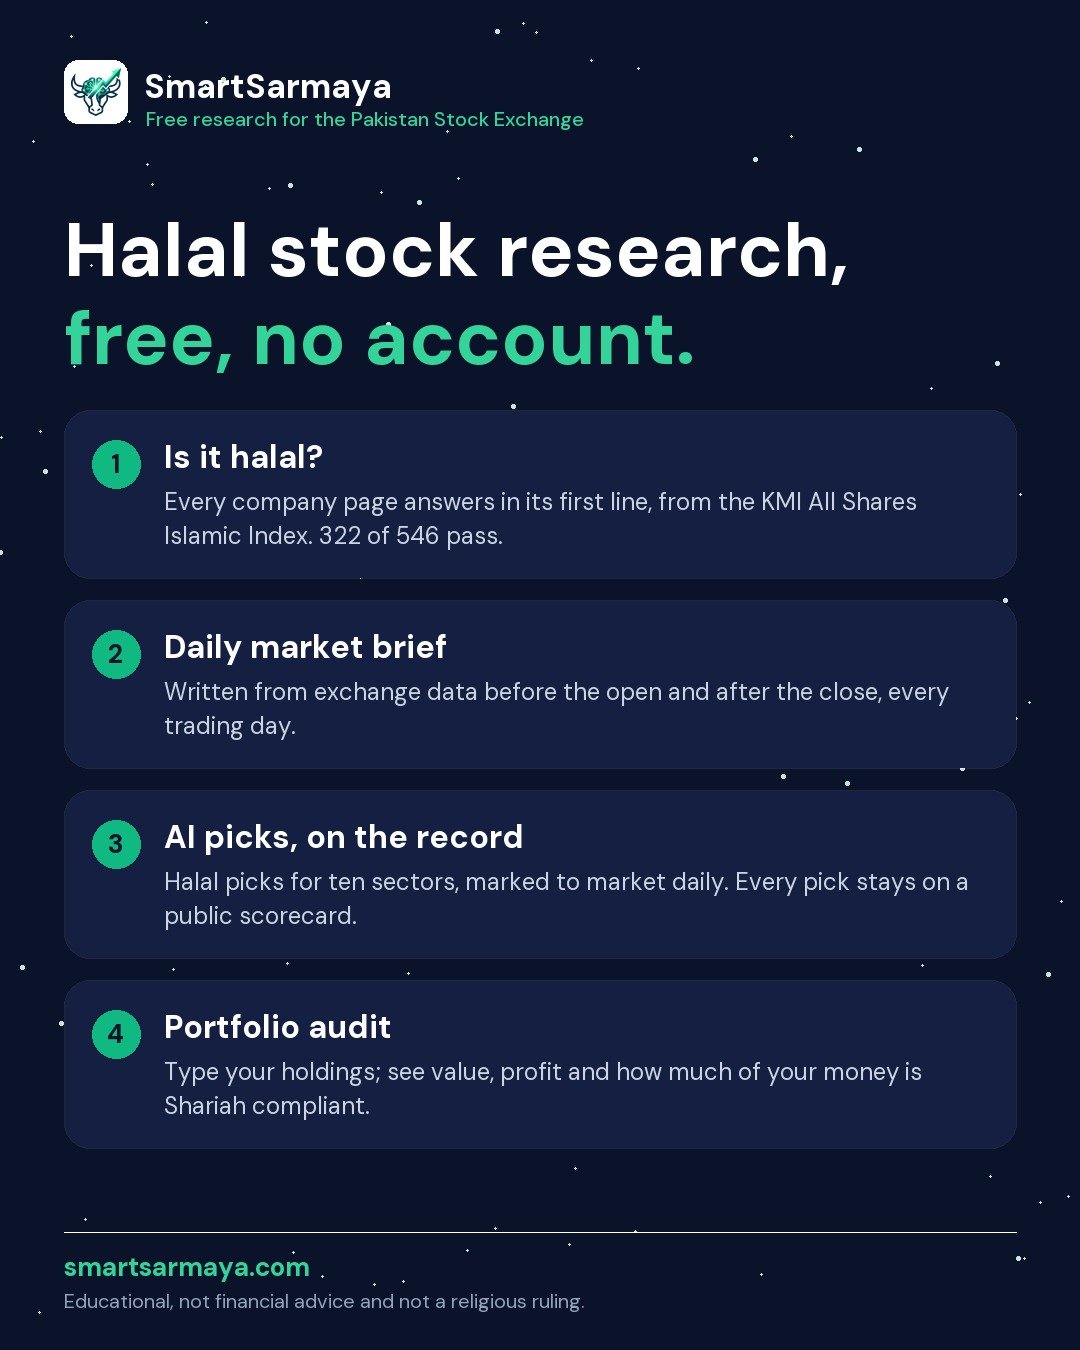
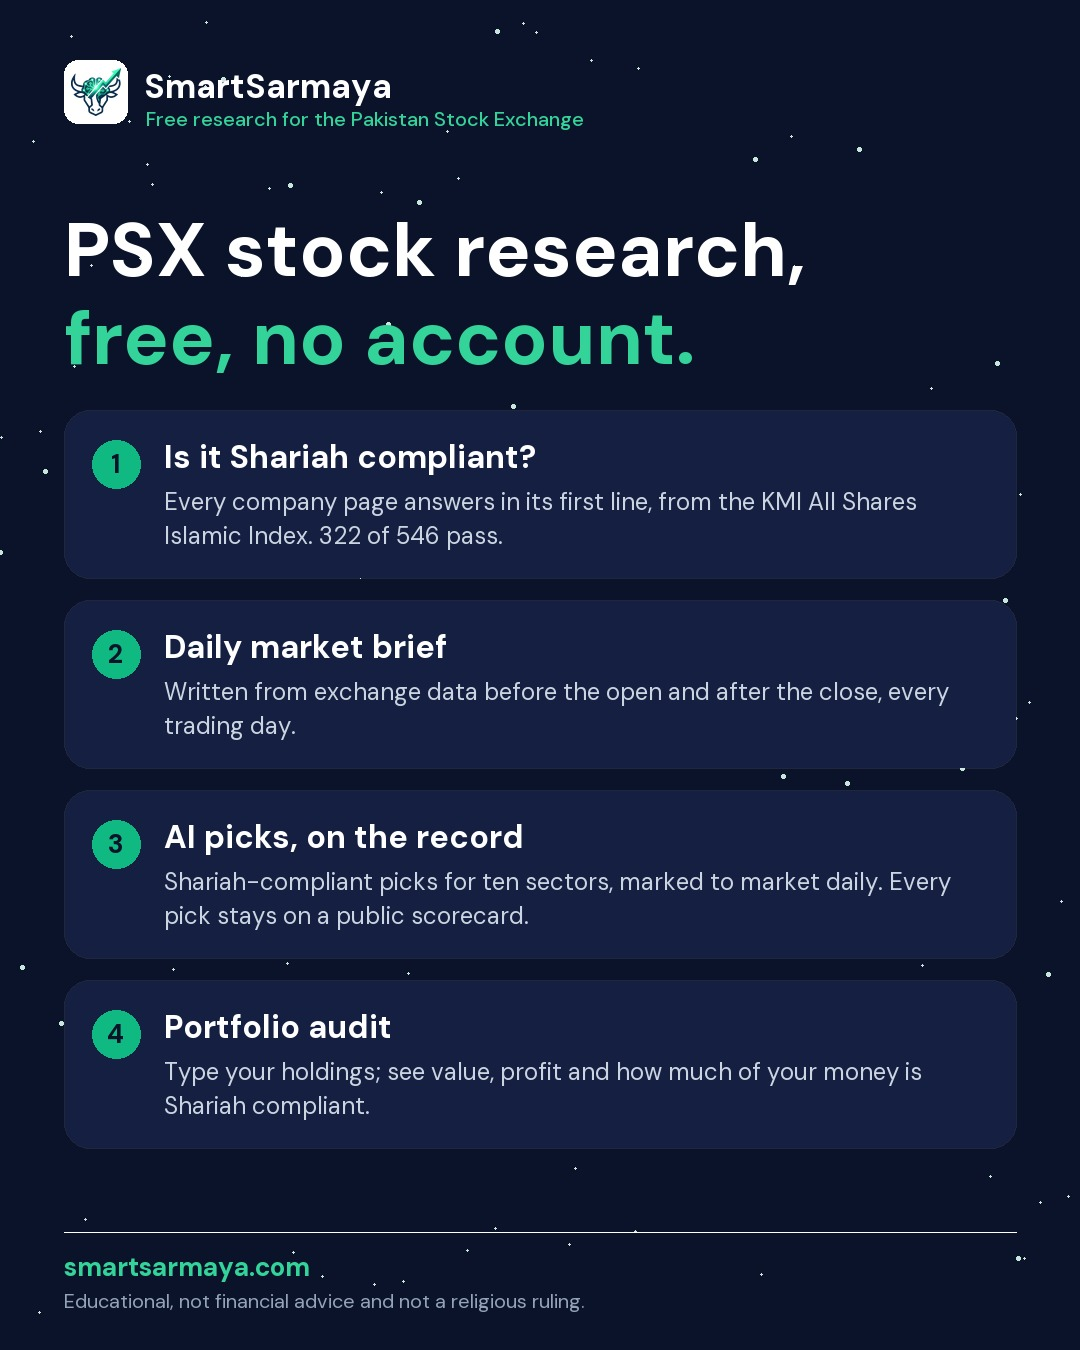
Say "Shariah compliant" instead of "halal" across the site and posts
The site now covers every listed company, compliant or not, so the
brand line becomes "AI stock research for the Pakistan Stock Exchange"
and the status vocabulary is Shariah compliant / not Shariah compliant
throughout: page titles and descriptions, the hero, nav and footer,
badges, the picks and track-record pages, the FAQ, the eight guides and
both diagrams, llms.txt, the pipeline's Telegram and social captions,
and the card, video and reply generators. Identifiers, CSS classes, DB
columns and the guide URL are unchanged. "halal" stays as a search
synonym in the keywords metadata, once in the FAQ and once in the
opening line of the guide that ranks for it.

diff --git a/frontend/src/app/about/page.tsx b/frontend/src/app/about/page.tsx
@@ -9,9 +9,9 @@ import { CONTACT_EMAIL, EDITOR, SITE_NAME, SITE_URL } from "@/lib/site";
  * halal claim is the reason anyone stays on the site.
  */
 export const metadata: Metadata = {
-  title: "About us and how the halal screening works",
+  title: "About us and how the Shariah screening works",
   description:
-    "SmartSarmaya is free AI stock research for the Pakistan Stock Exchange. Learn how our halal screening uses the PSX KMI All Shares Islamic Index and real data.",
+    "SmartSarmaya is free AI stock research for the Pakistan Stock Exchange. Learn how our Shariah screening uses the PSX KMI All Shares Islamic Index and real data.",
   alternates: { canonical: "/about" },
 };
 
@@ -35,7 +35,7 @@ export default function AboutPage() {
             SmartSarmaya reads the Pakistan Stock Exchange data that is already public, computes
             the technical numbers that most retail investors never get time to calculate, and uses
             an AI model to explain what those numbers say in plain language. You can audit a
-            portfolio, look up any listed company, and read the halal picks we publish each day.
+            portfolio, look up any listed company, and read the Shariah-compliant picks we publish each day.
             There is no account, no login and no fee.
           </p>
           <p className="mt-4 text-sm leading-relaxed text-slate-700">
@@ -91,7 +91,7 @@ export default function AboutPage() {
 
         <div className="card mt-5 p-5 sm:p-6">
           <h2 className="text-base font-bold text-navy-900">
-            How the halal screening actually works
+            How the Shariah screening actually works
           </h2>
           <p className="mt-3 text-sm leading-relaxed text-slate-700">
             This is the part that matters most, so it is worth being precise about it.
@@ -106,7 +106,7 @@ export default function AboutPage() {
             exchange adds or removes a company, the badge on this site follows.
           </p>
           <p className="mt-4 text-sm leading-relaxed text-slate-700">
-            The AI never decides what is halal. It is not asked to. Before the model sees anything,
+            The AI never decides what is Shariah compliant. It is not asked to. Before the model sees anything,
             the candidate list is filtered down to KMI constituents only, so the model is choosing
             among stocks the exchange has already screened. If the model were to name a company
             outside that list, the pick is discarded before it is saved. The compliance decision

diff --git a/frontend/src/components/Hero.tsx b/frontend/src/components/Hero.tsx
@@ -125,14 +125,14 @@ export default function Hero({
             </span>
 
             <h1 className="text-3xl font-bold leading-tight tracking-tight text-white sm:text-4xl lg:text-5xl">
-              Halal stock research for the
+              AI stock research for the
               <span className="text-emerald-400"> Pakistan Stock Exchange</span>
             </h1>
 
             <p className="mt-5 max-w-md text-base leading-relaxed text-slate-300">
-              Audit your portfolio, analyse any listed company, and read AI picks whose Shariah
-              status comes from the exchange itself, not from a chatbot&apos;s guess. Free, and no
-              account.
+              Audit your portfolio, analyse any listed company, and read AI picks. The
+              Shariah-compliance status of every company comes from the exchange itself, not from
+              a chatbot&apos;s guess. Free, and no account.
             </p>
 
             <div className="mt-8 flex flex-col gap-3 sm:flex-row sm:items-center">
@@ -147,16 +147,16 @@ export default function Hero({
                 href="#picks"
                 className="focus-ring inline-flex items-center justify-center gap-2 rounded-xl border border-white/20 px-6 py-3 text-base font-semibold text-white transition hover:bg-white/10"
               >
-                See today&apos;s halal picks
+                See today&apos;s Shariah-compliant picks
                 <ArrowRight className="h-4 w-4" aria-hidden />
               </Link>
             </div>
 
             <dl className="tabular mt-7 flex flex-wrap items-center gap-y-2 text-sm text-slate-400">
               <div className="pr-5">
-                <dt className="sr-only">Halal stocks</dt>
+                <dt className="sr-only">Shariah-compliant stocks</dt>
                 <dd>
-                  <span className="font-bold text-white">{halalCount || "—"}</span> halal stocks
+                  <span className="font-bold text-white">{halalCount || "—"}</span> Shariah compliant
                 </dd>
               </div>
               <div className="border-l border-white/10 px-5">
@@ -297,7 +297,7 @@ export default function Hero({
         </div>
       </ParallaxStage>
 
-      <nav className="hero-rail" aria-label="Halal picks by sector">
+      <nav className="hero-rail" aria-label="Shariah-compliant picks by sector">
         <Link href="/picks" className="hero-rail-link hero-rail-link-active focus-ring">
           <span className="hero-rail-dot" aria-hidden />
           All picks

diff --git a/frontend/src/app/layout.tsx b/frontend/src/app/layout.tsx
@@ -26,15 +26,16 @@ export const viewport: Viewport = {
 export const metadata: Metadata = {
   metadataBase: new URL(SITE_URL),
   title: {
-    default: "SmartSarmaya | Halal AI stock research for PSX and the KSE-100",
+    default: "SmartSarmaya | Shariah-compliant AI research for the PSX",
     template: "%s | SmartSarmaya",
   },
   description:
-    "Free AI research for the Pakistan Stock Exchange. Audit your portfolio, analyse any listed company, and read halal stock picks screened against the KMI All Shares Islamic Index. Educational only, not financial advice.",
+    "Free AI research for the Pakistan Stock Exchange. Audit your portfolio, analyse any listed company, and read Shariah-compliant stock picks screened against the KMI All Shares Islamic Index. Educational only, not financial advice.",
   keywords: [
     "PSX",
     "Pakistan Stock Exchange",
     "KSE-100",
+    "Shariah compliant stocks Pakistan",
     "halal stocks Pakistan",
     "Shariah compliant stocks PSX",
     "KMI All Shares Islamic Index",
@@ -55,9 +56,9 @@ export const metadata: Metadata = {
   },
   alternates: { canonical: "/" },
   openGraph: {
-    title: "SmartSarmaya | Halal AI stock research for PSX",
+    title: "SmartSarmaya | Shariah-compliant AI research for the PSX",
     description:
-      "Audit your PSX portfolio and read AI halal picks screened against the exchange's own Islamic index. Free, no account needed.",
+      "Audit your PSX portfolio and read AI Shariah-compliant picks screened against the exchange's own Islamic index. Free, no account needed.",
     url: SITE_URL,
     siteName: "SmartSarmaya",
     locale: "en_PK",
@@ -67,15 +68,15 @@ export const metadata: Metadata = {
         url: "/images/og-default.jpg",
         width: 1200,
         height: 630,
-        alt: "SmartSarmaya, halal AI stock research for the Pakistan Stock Exchange",
+        alt: "SmartSarmaya, Shariah-compliant AI stock research for the Pakistan Stock Exchange",
       },
     ],
   },
   twitter: {
     card: "summary_large_image",
-    title: "SmartSarmaya | Halal AI stock research for PSX",
+    title: "SmartSarmaya | Shariah-compliant AI research for the PSX",
     description:
-      "Audit your PSX portfolio and read AI halal picks screened against the exchange's own Islamic index.",
+      "Audit your PSX portfolio and read AI Shariah-compliant picks screened against the exchange's own Islamic index.",
     images: ["/images/og-default.jpg"],
   },
   robots: {

diff --git a/frontend/src/app/picks/page.tsx b/frontend/src/app/picks/page.tsx
@@ -20,12 +20,12 @@ import { SITE_URL } from "@/lib/site";
 export const revalidate = 600;
 
 export const metadata: Metadata = {
-  title: "Halal stocks in Pakistan, by sector",
+  title: "Shariah-compliant stocks in Pakistan, by sector",
   description:
     "Shariah-compliant stock picks for ten PSX sectors, screened against the KMI All Shares Islamic Index published by the Pakistan Stock Exchange and ranked by AI for short, medium and long term horizons.",
   alternates: { canonical: "/picks" },
   openGraph: {
-    title: "Halal stocks in Pakistan, by sector",
+    title: "Shariah-compliant stocks in Pakistan, by sector",
     description:
       "Ten sectors of Shariah-compliant PSX stocks, screened against the exchange's own Islamic index.",
     url: `${SITE_URL}/picks`,
@@ -53,14 +53,14 @@ export default async function PicksHubPage() {
     "@type": "BreadcrumbList",
     itemListElement: [
       { "@type": "ListItem", position: 1, name: "Home", item: SITE_URL },
-      { "@type": "ListItem", position: 2, name: "Halal picks", item: `${SITE_URL}/picks` },
+      { "@type": "ListItem", position: 2, name: "Shariah-compliant picks", item: `${SITE_URL}/picks` },
     ],
   };
 
   const itemList = {
     "@context": "https://schema.org",
     "@type": "ItemList",
-    name: "Halal stock picks by PSX sector",
+    name: "Shariah-compliant stock picks by PSX sector",
     itemListElement: sectors.map((sector, index) => ({
       "@type": "ListItem",
       position: index + 1,
@@ -87,7 +87,7 @@ export default async function PicksHubPage() {
             KMI All Shares screened
           </span>
           <h1 className="mt-3 text-3xl font-bold tracking-tight text-white sm:text-4xl">
-            Halal stocks in Pakistan, by sector
+            Shariah-compliant stocks in Pakistan, by sector
           </h1>
           <p className="mt-3 max-w-3xl leading-relaxed text-slate-300">
             Every company below is a constituent of the KMI All Shares Islamic Index published by
@@ -139,7 +139,7 @@ export default async function PicksHubPage() {
 
           <div className="card mt-6 p-5">
             <h2 className="text-base font-bold text-navy-900">
-              How a stock qualifies as halal here
+              How a stock qualifies as Shariah compliant here
             </h2>
             <p className="mt-2 leading-relaxed text-slate-700">
               A stock appears on these pages only if the Pakistan Stock Exchange lists it in the

diff --git a/frontend/src/app/stock/[symbol]/page.tsx b/frontend/src/app/stock/[symbol]/page.tsx
@@ -56,7 +56,7 @@ export async function generateMetadata({
     // Absolute, because the layout's " | SmartSarmaya" suffix pushed every
     // stock title past what a result page shows. The company name leads: it
     // is what people type, and the ticker alone was all the old title had.
-    title: { absolute: `${label} share price & halal status` },
+    title: { absolute: `${label} share price & Shariah status` },
     // Kept under 155 characters so the halal verdict and price both survive
     // the snippet. "Latest" rather than "live": quotes are end-of-day.
     description: `${label} is ${halal} on the PSX. Latest price ${money(stock.current_price)} PKR (${percent(stock.change_pct)}). Technicals, 52-week range and KMI index status.`,
@@ -392,7 +392,7 @@ export default async function StockPage({
 
         <section className="card mt-4 p-5">
           <h2 className="text-base font-bold text-navy-900">
-            Is {clean} halal to invest in?
+            Is {clean} Shariah compliant?
           </h2>
           <p className="mt-2 leading-relaxed text-slate-700">
             {stock.is_kmi ? (
@@ -442,7 +442,7 @@ export default async function StockPage({
                       {percent(peer.change_pct)}
                     </span>
                     {peer.is_kmi ? (
-                      <span className="text-xs text-emerald-700">halal</span>
+                      <span className="text-xs text-emerald-700">compliant</span>
                     ) : null}
                   </Link>
                 </li>
@@ -453,7 +453,7 @@ export default async function StockPage({
                 href={`/picks/${sectorSlug}`}
                 className="mt-4 inline-flex text-sm font-semibold text-emerald-700 hover:text-emerald-800"
               >
-                See the halal picks for this sector
+                See the Shariah-compliant picks for this sector
               </Link>
             ) : null}
           </section>
@@ -472,7 +472,7 @@ export default async function StockPage({
             href="/#picks"
             className="rounded-lg border border-slate-200 px-4 py-2.5 text-sm font-semibold text-navy-900 transition hover:border-emerald-300"
           >
-            See today&apos;s halal picks
+            See today&apos;s Shariah-compliant picks
           </Link>
         </div>
 

diff --git a/frontend/src/app/picks/[sector]/page.tsx b/frontend/src/app/picks/[sector]/page.tsx
@@ -35,14 +35,14 @@ export async function generateMetadata({
 }): Promise<Metadata> {
   const { sector: slug } = await params;
   const sector = sectorBySlug(slug);
-  if (!sector) return { title: "Halal picks" };
+  if (!sector) return { title: "Shariah-compliant picks" };
 
   return {
-    title: `Halal ${sector.title.toLowerCase()} on the PSX`,
+    title: `Shariah-compliant ${sector.title.toLowerCase()} on the PSX`,
     description: `Shariah-compliant ${sector.title.toLowerCase()} on the Pakistan Stock Exchange, screened against the KMI All Shares Islamic Index and ranked by AI for short, medium and long term horizons.`,
     alternates: { canonical: `/picks/${sector.slug}` },
     openGraph: {
-      title: `Halal ${sector.title.toLowerCase()} on the PSX`,
+      title: `Shariah-compliant ${sector.title.toLowerCase()} on the PSX`,
       description: sector.blurb,
       url: `${SITE_URL}/picks/${sector.slug}`,
       type: "website",
@@ -86,7 +86,7 @@ export default async function SectorPicksPage({
     "@type": "BreadcrumbList",
     itemListElement: [
       { "@type": "ListItem", position: 1, name: "Home", item: SITE_URL },
-      { "@type": "ListItem", position: 2, name: "Halal picks", item: `${SITE_URL}/picks` },
+      { "@type": "ListItem", position: 2, name: "Shariah-compliant picks", item: `${SITE_URL}/picks` },
       {
         "@type": "ListItem",
         position: 3,
@@ -116,7 +116,7 @@ export default async function SectorPicksPage({
             KMI All Shares Islamic Index
           </span>
           <h1 className="mt-3 text-3xl font-bold tracking-tight text-white sm:text-4xl">
-            Halal {sector.title.toLowerCase()}
+            Shariah-compliant {sector.title.toLowerCase()}
           </h1>
           <p className="mt-3 max-w-2xl leading-relaxed text-slate-300">{sector.blurb}</p>
         </div>

diff --git a/frontend/src/lib/faq.ts b/frontend/src/lib/faq.ts
@@ -10,14 +10,14 @@ export type FaqItem = { question: string; answer: string };
 
 export const FAQ_ITEMS: FaqItem[] = [
   {
-    question: "How do you decide which PSX stocks are halal?",
+    question: "How do you decide which PSX stocks are Shariah compliant?",
     answer:
-      "Shariah status comes from the KMI All Shares Islamic Index published by the Pakistan Stock Exchange. A stock is labelled Shariah compliant only if the exchange lists it as a constituent. The AI is never asked to make that judgement, and it can only choose among stocks that already passed the screen.",
+      "Shariah status comes from the KMI All Shares Islamic Index published by the Pakistan Stock Exchange. A stock is labelled Shariah compliant (halal) only if the exchange lists it as a constituent. The AI is never asked to make that judgement, and it can only choose among stocks that already passed the screen.",
   },
   {
     question: "Is SmartSarmaya free?",
     answer:
-      "Yes. Portfolio audits, stock analysis, halal picks and the daily market brief are all free, with no account or registration. The site is supported by advertising.",
+      "Yes. Portfolio audits, stock analysis, Shariah-compliant picks and the daily market brief are all free, with no account or registration. The site is supported by advertising.",
   },
   {
     question: "Do you store my portfolio?",

diff --git a/frontend/src/app/track-record/page.tsx b/frontend/src/app/track-record/page.tsx
@@ -12,7 +12,7 @@ import { EDITOR, SITE_URL } from "@/lib/site";
 export const revalidate = 900;
 
 export const metadata: Metadata = {
-  title: "Track record of our AI halal picks",
+  title: "Track record of our AI Shariah-compliant picks",
   description:
     "Every AI stock pick SmartSarmaya has published for the Pakistan Stock Exchange, with its entry price and current return. The good and the bad, updated daily.",
   alternates: { canonical: "/track-record" },
@@ -34,7 +34,7 @@ export default async function TrackRecordPage() {
   const dataset = {
     "@context": "https://schema.org",
     "@type": "Dataset",
-    name: "SmartSarmaya halal stock pick track record",
+    name: "SmartSarmaya Shariah-compliant stock pick track record",
     description:
       "Every AI-generated Shariah-compliant stock pick published by SmartSarmaya for the Pakistan Stock Exchange, with entry date, entry price, latest price and return, marked to market every trading day.",
     url: `${SITE_URL}/track-record`,
@@ -53,7 +53,7 @@ export default async function TrackRecordPage() {
       "days held",
       "target reached",
     ],
-    keywords: ["PSX", "halal stocks", "KMI All Shares Islamic Index", "stock picks", "track record"],
+    keywords: ["PSX", "Shariah compliant stocks", "KMI All Shares Islamic Index", "stock picks", "track record"],
   };
 
   return (

diff --git a/frontend/src/app/og/route.tsx b/frontend/src/app/og/route.tsx
@@ -139,7 +139,7 @@ function card(node: React.ReactElement) {
 function fallbackCard() {
   return card(
     <Frame
-      eyebrow="Halal AI research for the Pakistan Stock Exchange"
+      eyebrow="Shariah-compliant AI research for the Pakistan Stock Exchange"
       footer="Free. No account. Not financial advice."
     >
       <div style={{ display: "flex", flexDirection: "column", gap: 18 }}>
@@ -151,7 +151,7 @@ function fallbackCard() {
             lineHeight: 1.1,
           }}
         >
-          Halal stock picks, screened by the exchange
+          Shariah-compliant picks, screened by the exchange
         </div>
         <div style={{ fontSize: 28, color: SLATE, display: "flex" }}>
           Every Shariah label comes from the KMI All Shares Islamic Index, not
@@ -268,7 +268,7 @@ async function picksCard(slug: string) {
   const { picks } = await getTopPicks("daily", sector.name, 3);
   return card(
     <Frame
-      eyebrow="Top halal picks"
+      eyebrow="Top Shariah-compliant picks"
       footer="Screened against the KMI All Shares Islamic Index"
     >
       <div style={{ display: "flex", flexDirection: "column", gap: 24 }}>

diff --git a/frontend/src/lib/site.ts b/frontend/src/lib/site.ts
@@ -7,7 +7,7 @@ export const SITE_URL = (
 export const SITE_NAME = "SmartSarmaya";
 
 export const SITE_DESCRIPTION =
-  "Free AI research for the Pakistan Stock Exchange. Portfolio audits, stock analysis and halal picks screened against the KMI All Shares Islamic Index.";
+  "Free AI research for the Pakistan Stock Exchange. Portfolio audits, stock analysis and Shariah-compliant picks screened against the KMI All Shares Islamic Index.";
 
 export const CONTACT_EMAIL = "info@smartsarmaya.com";
 
@@ -20,7 +20,7 @@ export const CONTACT_EMAIL = "info@smartsarmaya.com";
 export const EDITOR = {
   name: "Qasim Riaz",
   jobTitle: "Founder and editor",
-  bio: "Builds and runs SmartSarmaya, sets the halal screening rules it follows, and answers for what it publishes. A retail investor on the Pakistan Stock Exchange.",
+  bio: "Builds and runs SmartSarmaya, sets the Shariah screening rules it follows, and answers for what it publishes. A retail investor on the Pakistan Stock Exchange.",
   url: `${SITE_URL}/about#editor`,
   id: `${SITE_URL}/#editor`,
 } as const;

diff --git a/frontend/src/app/guides/page.tsx b/frontend/src/app/guides/page.tsx
@@ -7,7 +7,7 @@ import { shortDate } from "@/lib/format";
 import { SITE_URL } from "@/lib/site";
 
 export const metadata: Metadata = {
-  title: "Guides to halal investing on the PSX",
+  title: "Guides to Shariah-compliant investing on the PSX",
   description:
     "Plain-language guides to the Pakistan Stock Exchange: how Shariah screening works, what the indices mean, how to read a stock page, and how to use every tool on this site.",
   alternates: { canonical: "/guides" },
@@ -38,7 +38,7 @@ export default async function GuidesPage() {
         <SectionHeading
           as="h1"
           eyebrow="Guides"
-          title="Halal investing on the PSX, explained"
+          title="Shariah-compliant investing on the PSX, explained"
           description="Short, specific answers to the questions people ask before they buy a Pakistani stock: how the Shariah screen works, what the indices mean, and how to read the numbers on a company page."
         />
 

diff --git a/frontend/src/components/picks/PicksSection.tsx b/frontend/src/components/picks/PicksSection.tsx
@@ -59,7 +59,7 @@ function PickCard({ pick, rank, livePrice }: { pick: Pick; rank: number; livePri
         </div>
         <span className="badge badge-on-dark shrink-0">
           <ShieldCheck className="h-3 w-3" aria-hidden />
-          Halal
+          Compliant
         </span>
       </div>
 
@@ -137,7 +137,7 @@ export default function PicksSection({
       <div className="mx-auto max-w-6xl">
         <SectionHeading
           eyebrow="Refreshed every trading morning"
-          title="Top halal picks"
+          title="Top Shariah-compliant picks"
           description="Every candidate is a constituent of the KMI All Shares Islamic Index, so compliance is decided by the exchange rather than by the model. The AI only explains and ranks what it is given."
           action={
             <Link
